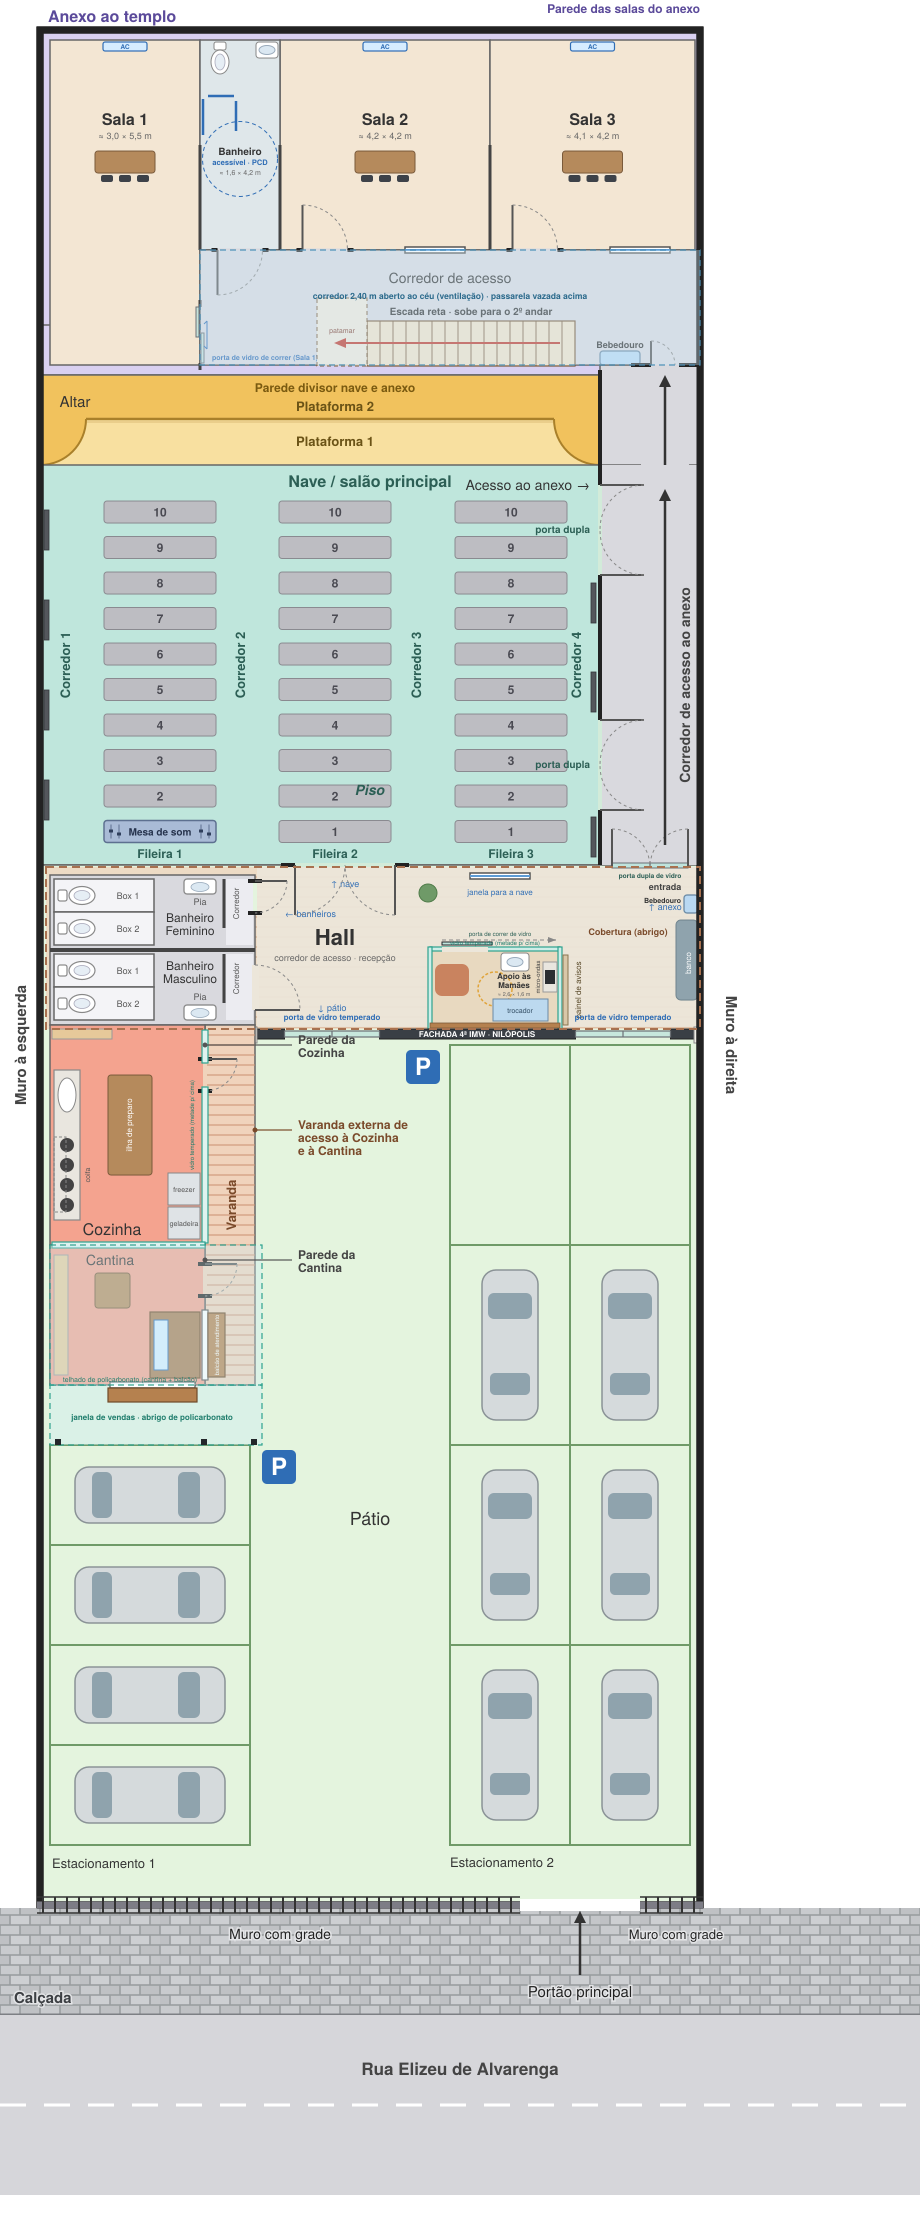
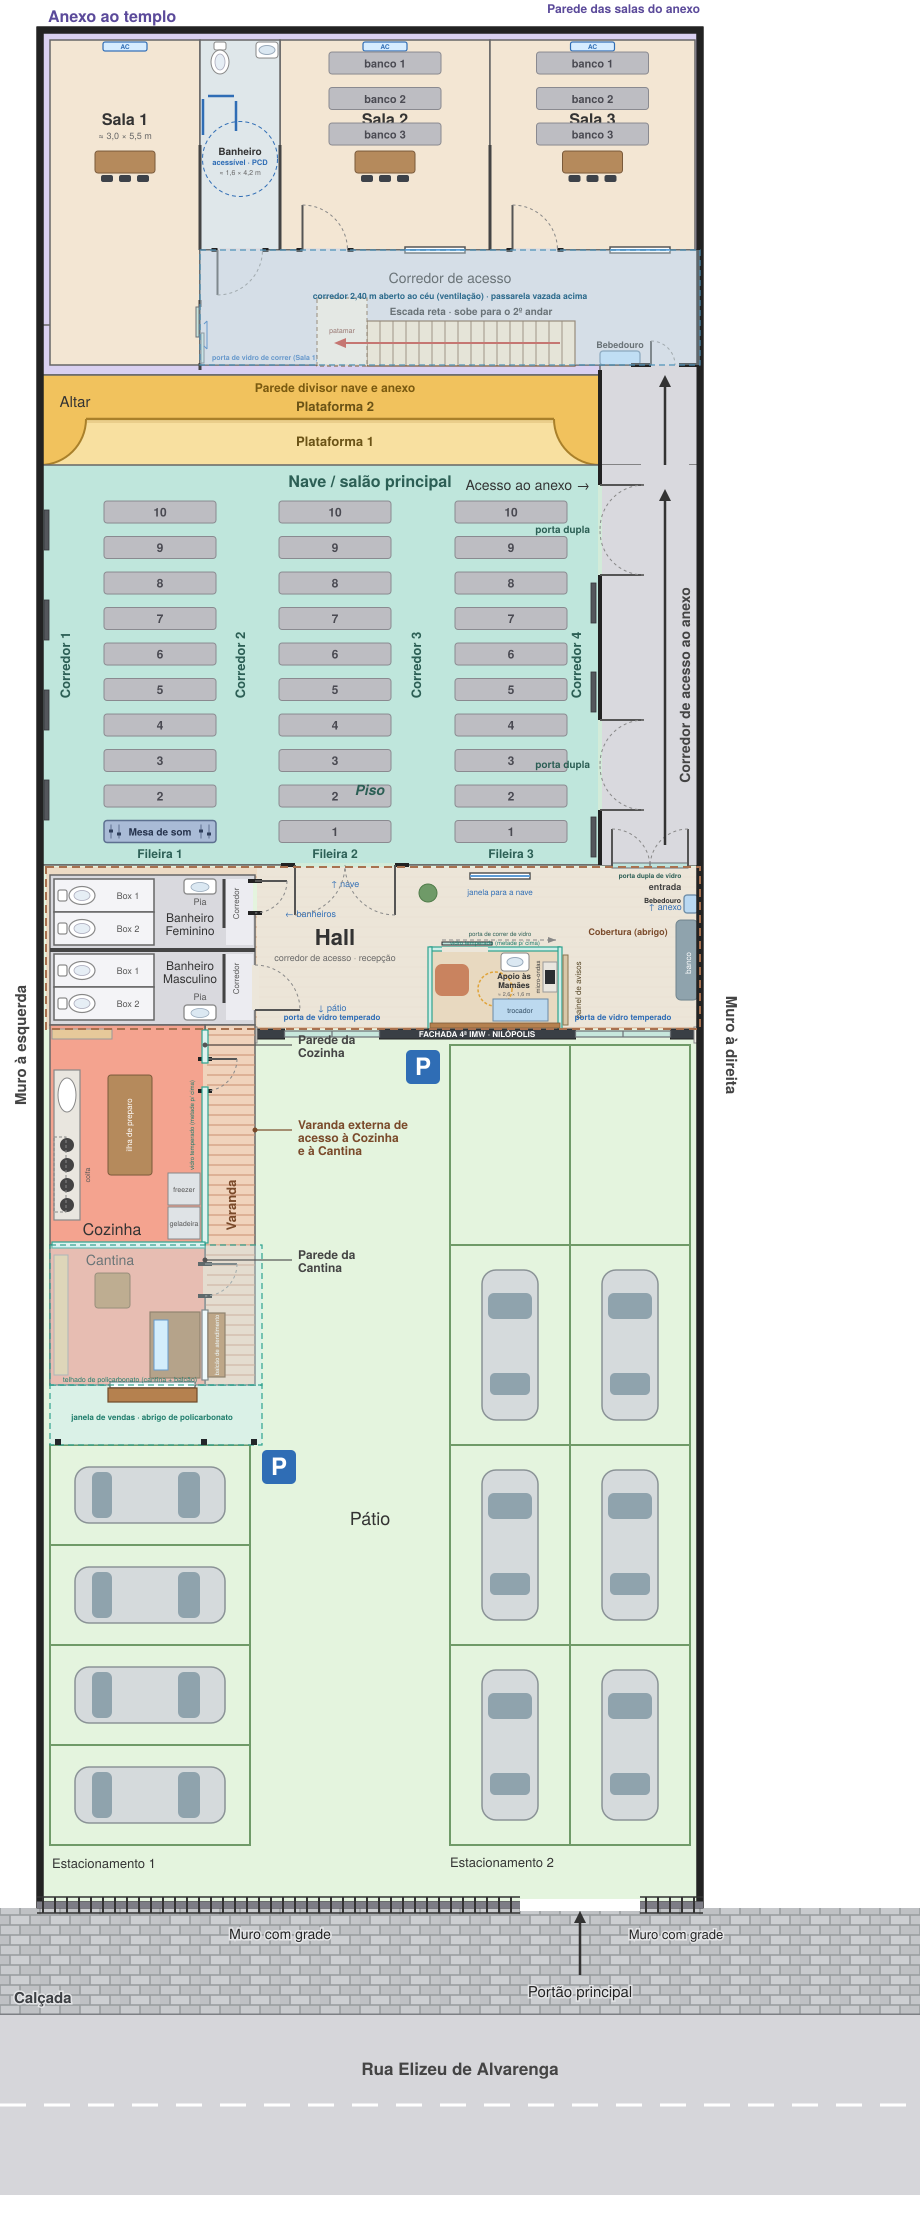
Maquete 3 (Etapa 78): 3 bancos da nave nas salas 2 e 3 do anexo (térreo) para conferir a profundidade
Claude-Session: https://claude.ai/code/session_015gh4tS64wXyJ2ghbw66cFX

Changed region(s): [[0.5783, 0.0, 0.7304, 0.0935], [0.3348, 0.0, 0.487, 0.0935]]

diff --git a/projeto3/maquete.html b/projeto3/maquete.html
@@ -1686,6 +1686,22 @@
     views.forEach(function(v){ if (v.tgt[2] > zb - 0.4 && v.tgt[2] < zf && v.pos[2] > zb - 0.4 && v.pos[2] < zb + 6 && inX(v.tgt[0])) v.tgt[2] = f(v.tgt[2]); });
     return { f: f };
   })();
+  // ---------- MAQUETE 3 (Etapa 78): 3 bancos iguais aos da nave (mesmo tamanho, passo de 0,71 m) nas salas 2 e 3 do anexo (térreo), para conferir a nova profundidade ----------
+  (function(){
+    var zIn = Z(-10) - 105 * S + 0.11;                                       // face interna da parede dos fundos das salas
+    var estofado = mat(0x7b8189, { roughness: 0.95 });
+    [385, 592.5].forEach(function(px){
+      var cx = X(px);
+      for (var i = 0; i < 3; i++){
+        var cz = zIn + 0.36 + i * 35.5 * S;                                   // 35,5 px = 0,71 m, o mesmo passo das fileiras da nave
+        box(2.24, 0.30, 0.44, C.wood, cx, 0.08 + 0.15, cz);
+        [-1, 1].forEach(function(sd){ box(0.07, 0.45, 0.44, C.wood, cx + sd * 1.085, 0.08 + 0.225, cz); });
+        box(2.10, 0.13, 0.40, 0, cx, 0.08 + 0.30 + 0.065, cz, null, { material: estofado });
+        box(2.24, 0.55, 0.08, C.wood, cx, 0.08 + 0.45 + 0.27, cz + 9 * S);
+        box(2.06, 0.38, 0.05, 0, cx, 0.08 + 0.45 + 0.30, cz + 9 * S - 0.065, null, { material: estofado });
+      }
+    });
+  })();
   var bar = document.getElementById('views');
   var anim = null, current = 'geral';
   // ---------- MAQUETE 3 (Etapa 57): modo noite ("Ver a noite") ----------
